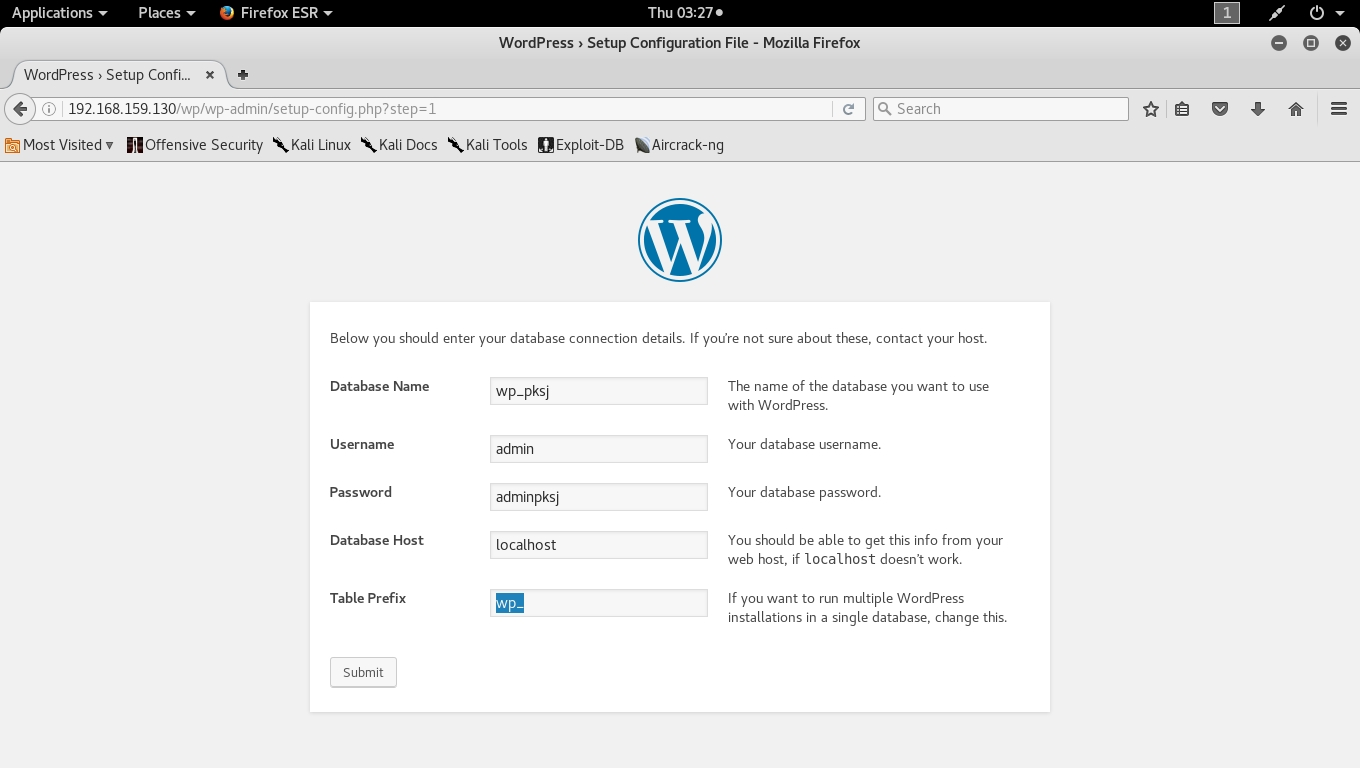
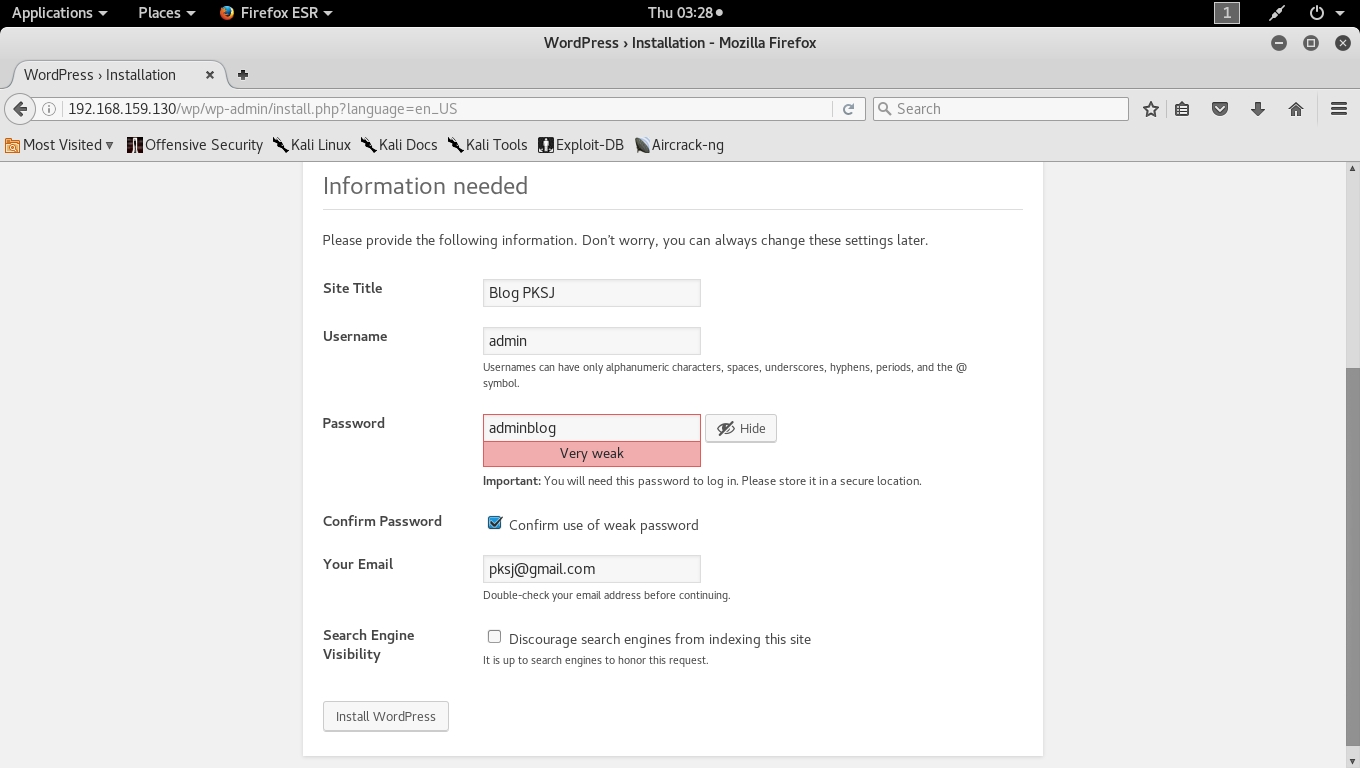
update laporan

diff --git a/Tugas 2/readme.md b/Tugas 2/readme.md
@@ -70,8 +70,66 @@ $ sudo mysql_secure_installation
 ```
 
 **3. Install PHP**
-
-
+Selanjutnya untuk menginstall PHP menggunakan comamnd berikut
+```
+$ sudo apt-get install php7.0 php7.0-mysql libapache2-mod-php7.0 php7.0-cli php7.0-cgi php7.0-gd
+```
+selanjutnya untuk mengetest apakah PHP sudah berjalan dengan command berikut
+```
+$ sudo vi /var/www/html/info.php
+```
+Masukan command pada file yang dibuka lewat vi
+```
+<?php
+phpinfo();
+?>
+```
+Setelah itu buka pada client browser dan masukan link ini http://server_address/info.php
+maka akan muncul seperti gambah dibawah
+![gambar1](Screenshot/PHP.png)
+**4. Install Wordpress**
+Setelah step sebelumnya di intall semua terlebih dahulu sekarang kami akan melakukan penginstall wordpress pertama kami mendownload dan mengextract terlebih dahulu
+```
+$ wget -c http://wordpress.org/latest.tar.gz
+$ tar -xzvf latest.tar.gz
+```
+kemudian file kami pindahkan
+```
+$ sudo rsync -av wordpress/* /var/www/html/
+```
+kemudian melakukan setting permission
+```
+$ sudo chown -R www-data:www-data /var/www/html/
+$ sudo chmod -R 755 /var/www/html/
+```
+**5. Membuat Wordpress database**
+Masukan command ini
+```
+$ mysql -u root -p
+```
+kemudian masukan command ini untuk membuat database
+```
+mysql> CREATE DATABASE wp_pksj;
+mysql> GRANT ALL PRIVILEGES ON wp_myblog.* TO 'your_username_here'@'localhost' IDENTIFIED BY 'your_chosen_password_here';
+mysql> FLUSH PRIVILEGES;
+mysql> EXIT;
+```
+kemudian menuju ke /var/www/html/ untuk me-rename file
+```
+$ sudo mv wp-config-sample.php wp-config.php
+```
+kemudian restart untuk menjalankan wordpress
+```
+$ sudo systemctl restart apache2.service
+$ sudo systemctl restart mysql.service
+```
+hasil wordpress dibuka pada client
+![gambar1](Screenshot/1.jpg)
+![gambar1](Screenshot/2.jpg)
+![gambar1](Screenshot/3.jpg)
+![gambar1](Screenshot/4.jpg)
+![gambar1](Screenshot/5.jpg)
+![gambar1](Screenshot/6.jpg)
 
 ## D. Uji Penetrasi
 **1. Uji penetrasi dengan wpscan**
@@ -79,7 +137,7 @@ Untuk uji penestasi pertama kita melakukan menggunakan wp scan untuk mengecek pl
 ```
 wpscan --url localhost/wordpress
 ```
-![gambar1](Screenshot/plugin.jpg)
+![gambar1](Screenshot/Plugin.jpg)
 
 Selanjutnya mengecek username menggunakan wpscan dengan command dibawah
 ```
@@ -98,16 +156,16 @@ Selanjutnya kami mencoba uji penetrasi menggunakan sqlmap pada plugin leaguemana
 sqlmap --url "http://192.168.159.130/wp" --level 5 --risk 3 --dbms mysql
 ```
 dari command ini kita mendapatkan OS, Webserver dan versi dbms yang diguankan
-![gambar1](Screenshot/Uji1.1.jpg)
+![gambar1](Screenshot/uji1.1.jpg)
 ```
 sqlmap --url "http://192.168.159.130/wp" --level 5 --risk 3 --dbms mysql --dbs
 ```
 dari command ini kita mendapat database yang terdapat pada target penetrasi
-![gambar1](Screenshot/Uji1.2.jpg)
+![gambar1](Screenshot/uji1.2.jpg)
 ```
 sqlmap --url "http://192.168.159.130/wp" --level 5 --risk 3 --dbms mysql -D wordpress --tables
 ```
 dari command ini kita mendapatkan tabel apa saja yang terdapat pada wordpress
-![gambar1](Screenshot/Uji1.3.jpg)
+![gambar1](Screenshot/uji1.3.jpg)
 
 ## E. Kesimpulan dan Saran
